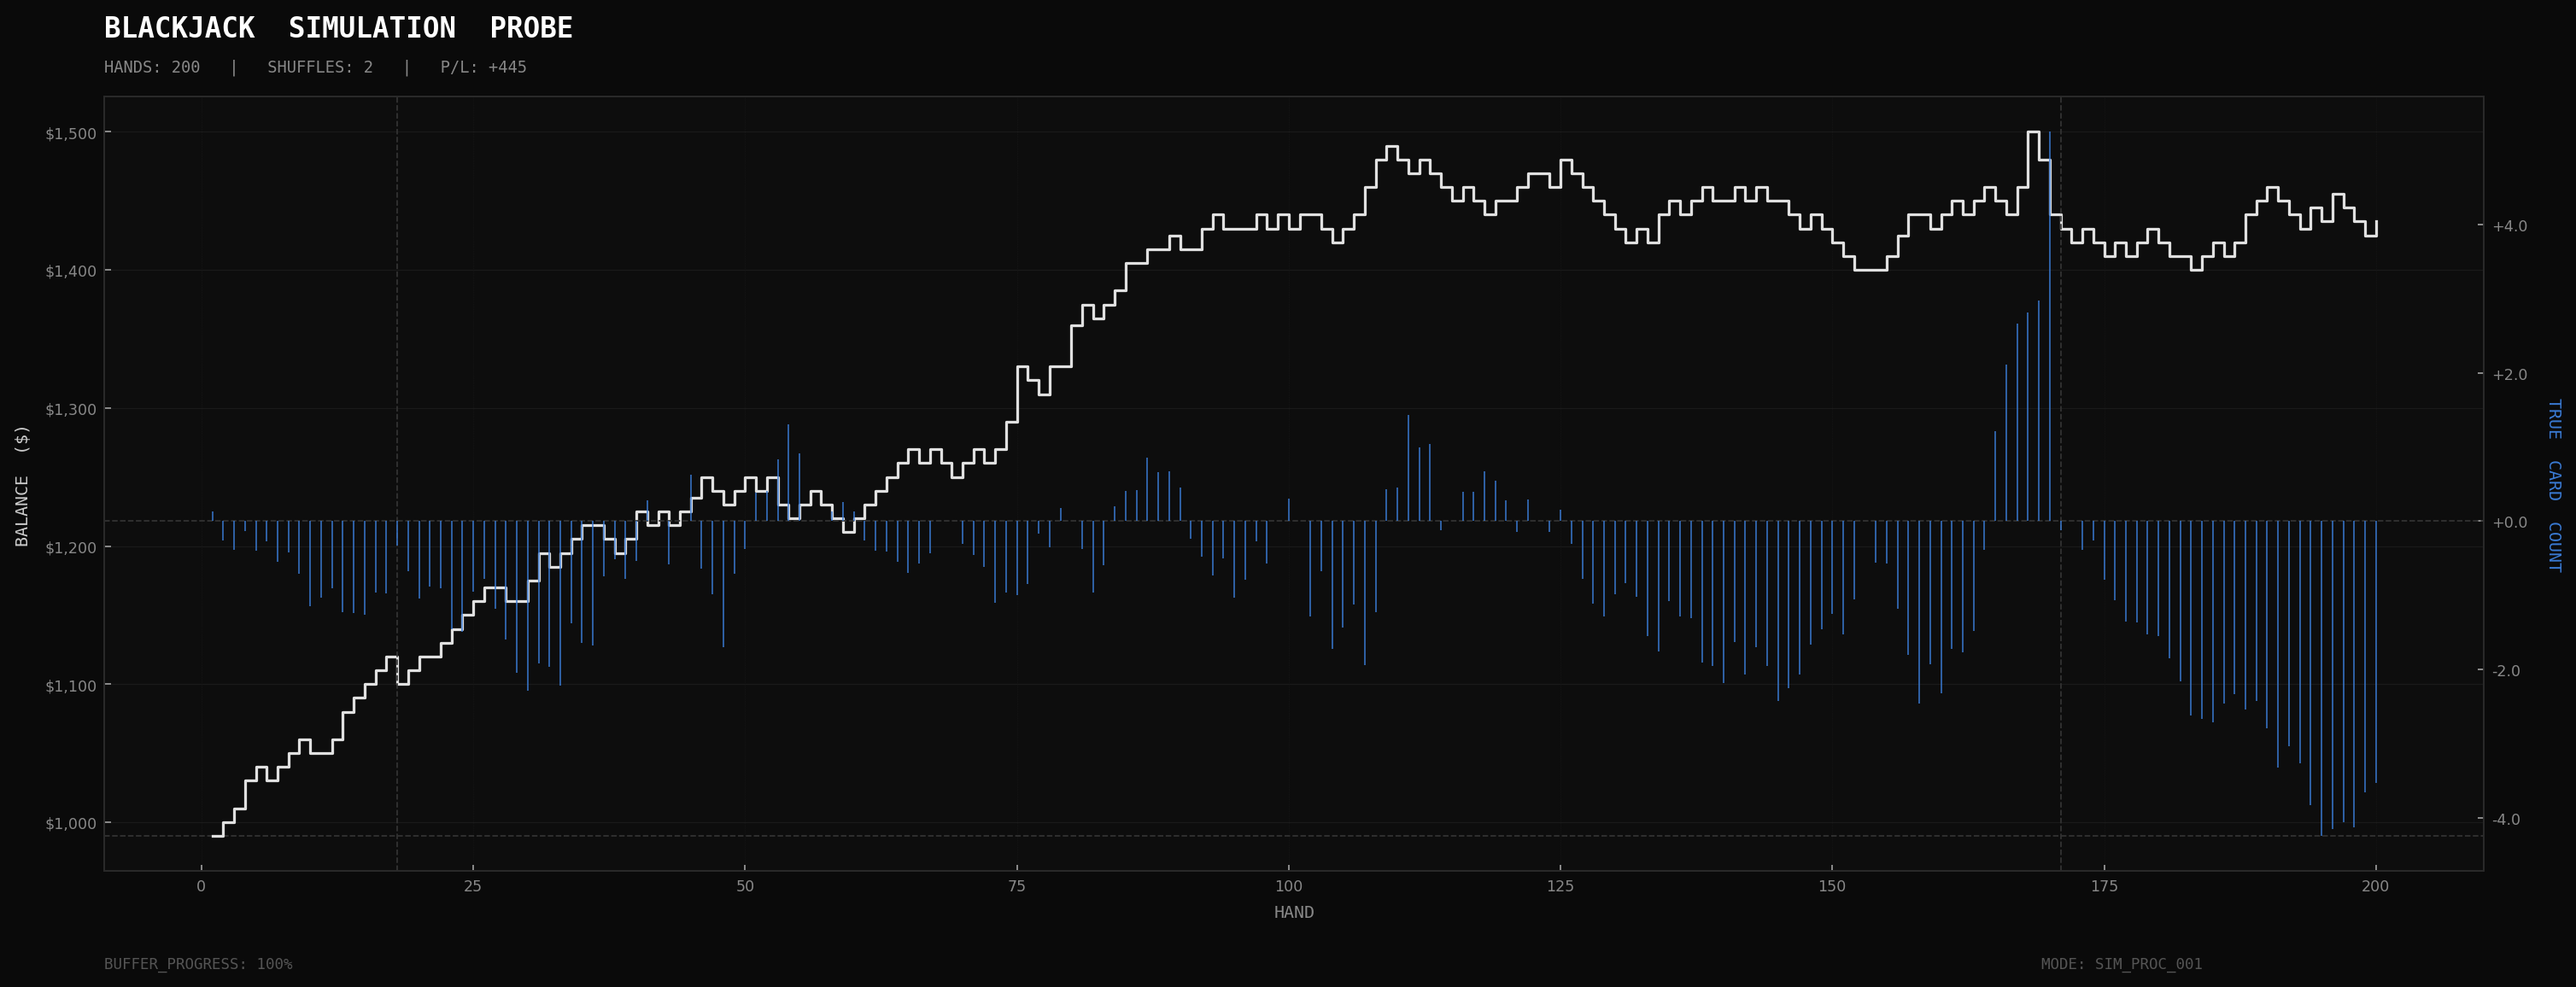
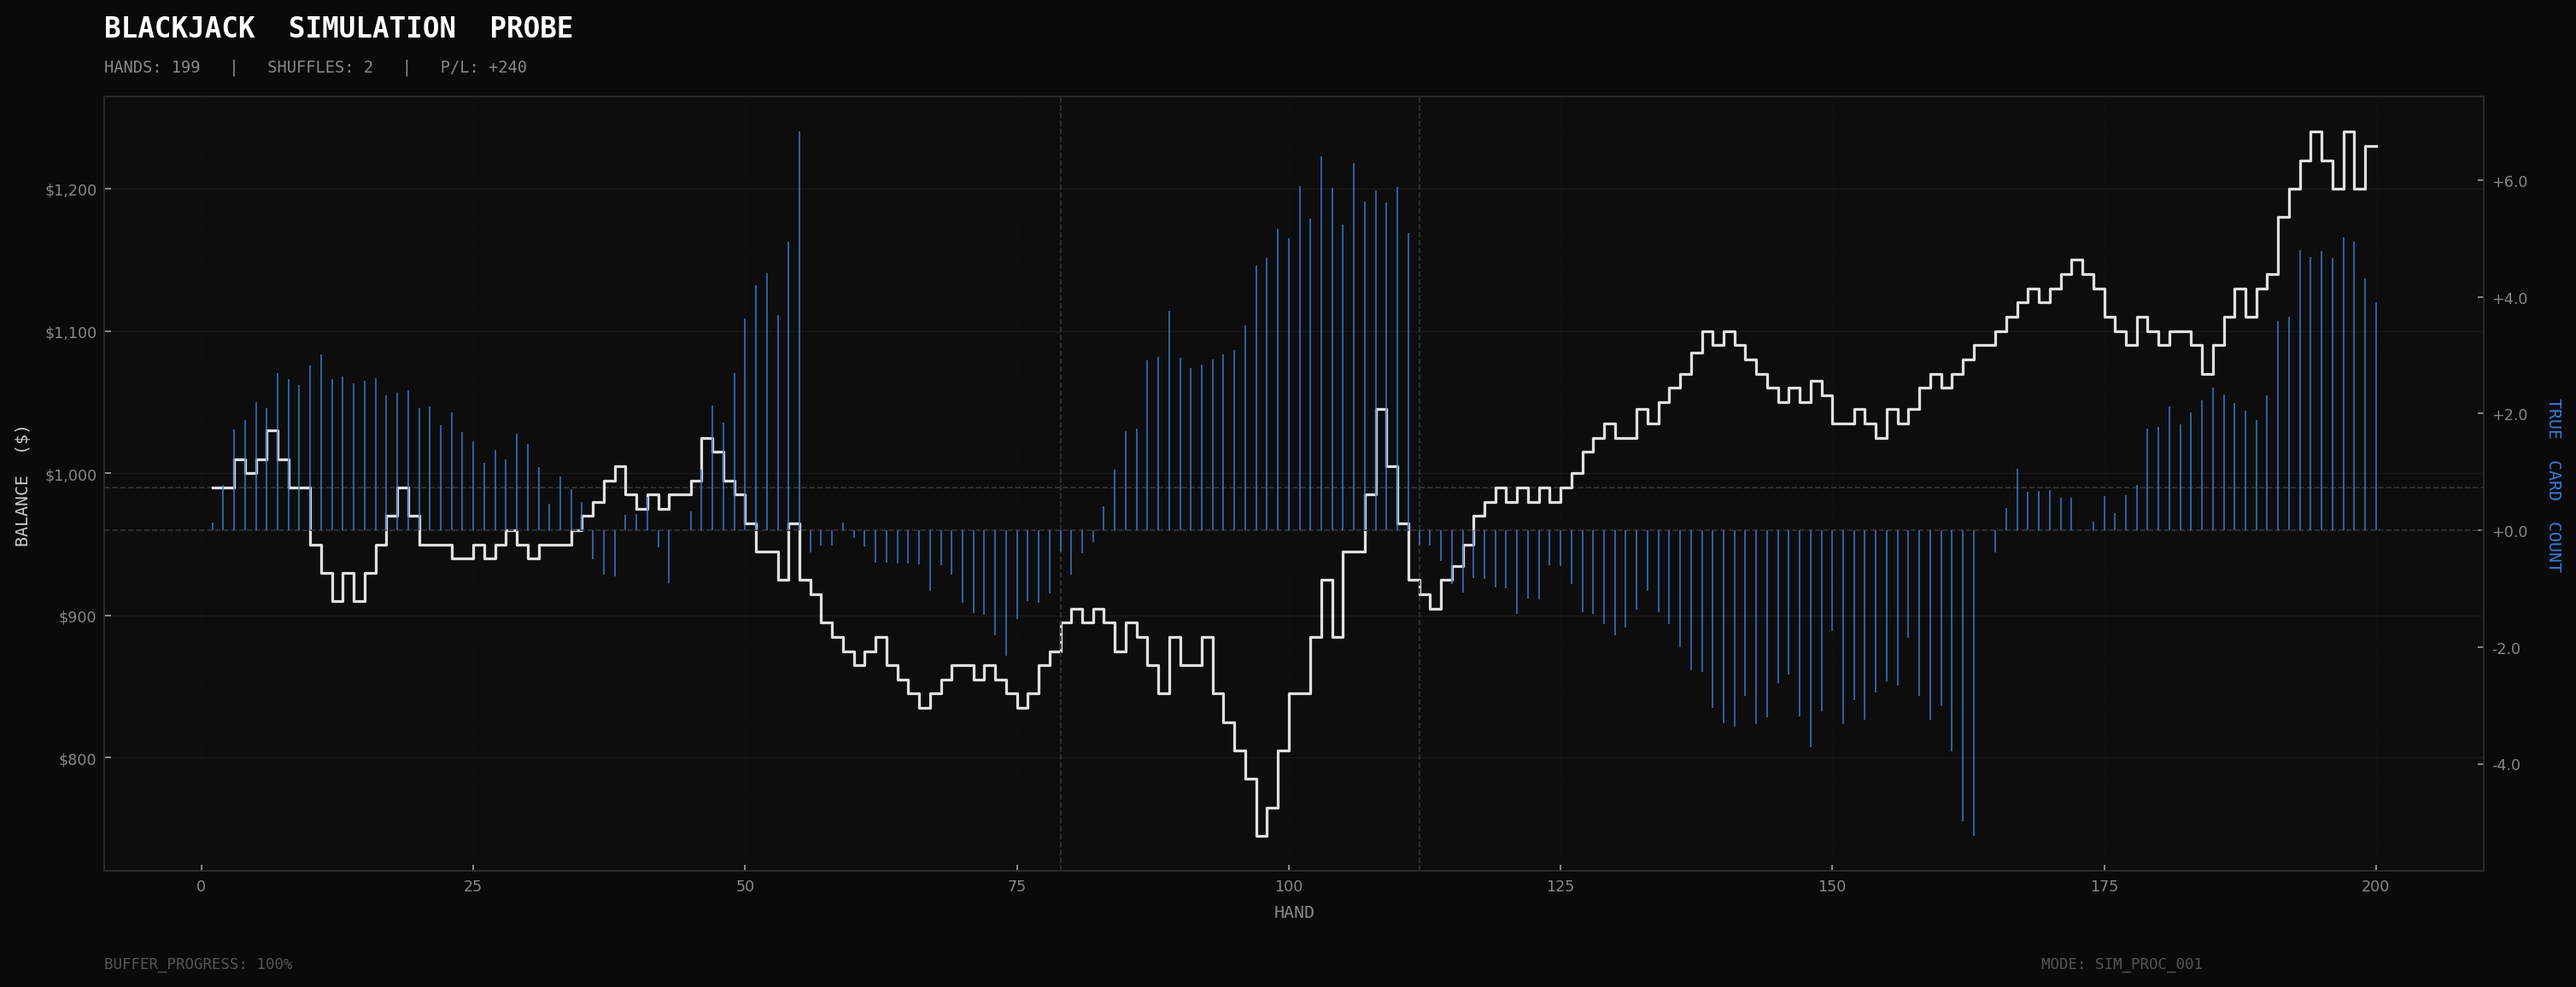
graph fixed

diff --git a/frontend/src/Simulation.jsx b/frontend/src/Simulation.jsx
@@ -7,6 +7,7 @@ const Simulation = () => {
   const [balance, setBalance] = useState(1000);
   const [betAmount, setBetAmount] = useState(10);
   const [numDecks, setNumDecks] = useState(8);
+  const [graphUrl, setGraphUrl] = useState(null);
 
   const runRestSimulation = async () => {
     try {
@@ -32,11 +33,28 @@ const Simulation = () => {
     }
   };
 
+  const [resultsData, setResultsData] = useState(null);
+
   const fetchResults = async () => {
     try {
       const res = await fetch('http://localhost:8010/results');
       const text = await res.text();
-      setOutput(text);
+
+      const rows = text.trim().split('\n');
+      if (rows.length > 0) {
+        const headers = rows[0].split(',');
+        const parsed = rows.slice(1).map(row => {
+          const cols = row.split(',');
+          return headers.reduce((acc, h, i) => {
+            acc[h.trim()] = cols[i] ? cols[i].trim() : '';
+            return acc;
+          }, {});
+        });
+        setResultsData(parsed);
+        setOutput('');
+      } else {
+        setOutput('No results data found.');
+      }
     } catch (err) {
       setOutput('Failed to fetch results: ' + err);
     }
@@ -126,6 +144,9 @@ const Simulation = () => {
         <button className="run-btn" onClick={fetchResults}>
           View Results (on webpage)
         </button>
+        <button className="run-btn" onClick={() => setGraphUrl(`http://localhost:8010/graph?t=${new Date().getTime()}`)}>
+          View Graph
+        </button>
         <div className="results-link" style={{ marginTop: '2rem', textAlign: 'center' }}>
           <a
             href="http://localhost:8010/results"
@@ -137,8 +158,37 @@ const Simulation = () => {
         </div>
       </div>
       <div className="info-box">
-        {output || 'Click "Run Simulation (REST)" to start.'}
+        {output && <div style={{ marginBottom: '1rem' }}>{output}</div>}
+        {!output && !resultsData && 'Click "Run Simulation (REST)" to start.'}
+
+        {resultsData && resultsData.length > 0 && (
+          <div style={{ maxHeight: '400px', overflowY: 'auto', marginTop: '1rem', width: '100%' }}>
+            <table style={{ width: '100%', borderCollapse: 'collapse', textAlign: 'left', fontSize: '0.9rem' }}>
+              <thead style={{ position: 'sticky', top: 0, backgroundColor: '#222', zIndex: 1 }}>
+                <tr>
+                  {Object.keys(resultsData[0]).map((h, i) => (
+                    <th key={i} style={{ padding: '8px', borderBottom: '1px solid #444', color: '#1eb854' }}>{h}</th>
+                  ))}
+                </tr>
+              </thead>
+              <tbody>
+                {resultsData.map((row, i) => (
+                  <tr key={i} style={{ borderBottom: '1px solid #333' }}>
+                    {Object.values(row).map((val, j) => (
+                      <td key={j} style={{ padding: '6px 8px', color: '#ccc' }}>{val}</td>
+                    ))}
+                  </tr>
+                ))}
+              </tbody>
+            </table>
+          </div>
+        )}
       </div>
+      {graphUrl && (
+        <div style={{ marginTop: '2rem', textAlign: 'center', width: '100%' }}>
+          <img src={graphUrl} alt="Simulation Graph" style={{ maxWidth: '100%', border: '1px solid #444', borderRadius: '4px' }} />
+        </div>
+      )}
     </div>
   );
 };

diff --git a/backend/main.py b/backend/main.py
@@ -51,8 +51,8 @@ class SimRequest(BaseModel):
 
 @app.post("/simulate")
 def simulate(req: SimRequest):
-    # Run the existing auto simulation (writes results.txt)
-    sim_results= AutoGame.auto_play_loop(
+    # Run the simulation and get results as JSON
+    sim_results = AutoGame.auto_play_loop(
         num_games=req.num_games,
         balance=req.balance,
         bet_amount=req.bet_amount,
@@ -61,7 +61,24 @@ def simulate(req: SimRequest):
         output_func=lambda *args, **kwargs: None,
         return_as_json=True
     )
-    return sim_results   # {"status": "ok", "num_games": req.num_games}
+    # Also save CSV + generate graph in the background
+    try:
+        import pandas as pd
+        results_df = pd.DataFrame(sim_results.get("results", []))
+        results_df.to_csv("results.csv", index=False)
+        from graph import SimGraph
+        SimGraph().generate()
+    except Exception as e:
+        print(f"Graph generation failed: {e}")
+    return sim_results
+
+
+@app.get("/graph")
+def get_graph():
+    graph_path = os.path.join(os.getcwd(), "simulation_graph.png")
+    if os.path.exists(graph_path):
+        return FileResponse(graph_path, media_type="image/png")
+    return {"error": "No graph found. Run a simulation first."}
 
 
 
